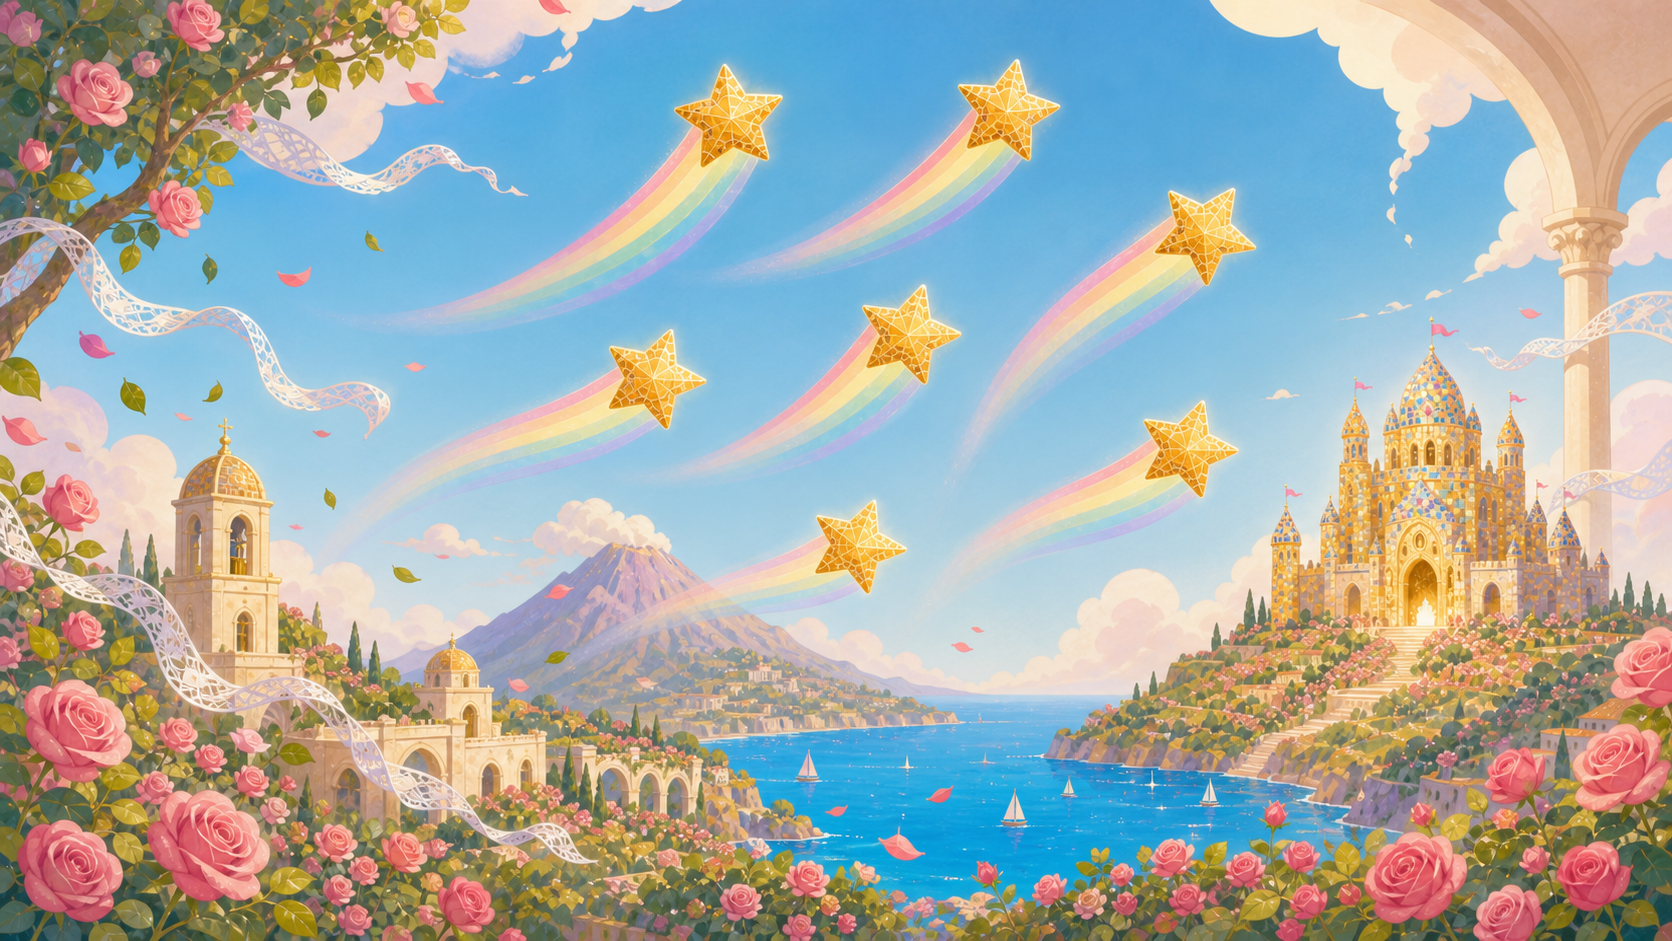
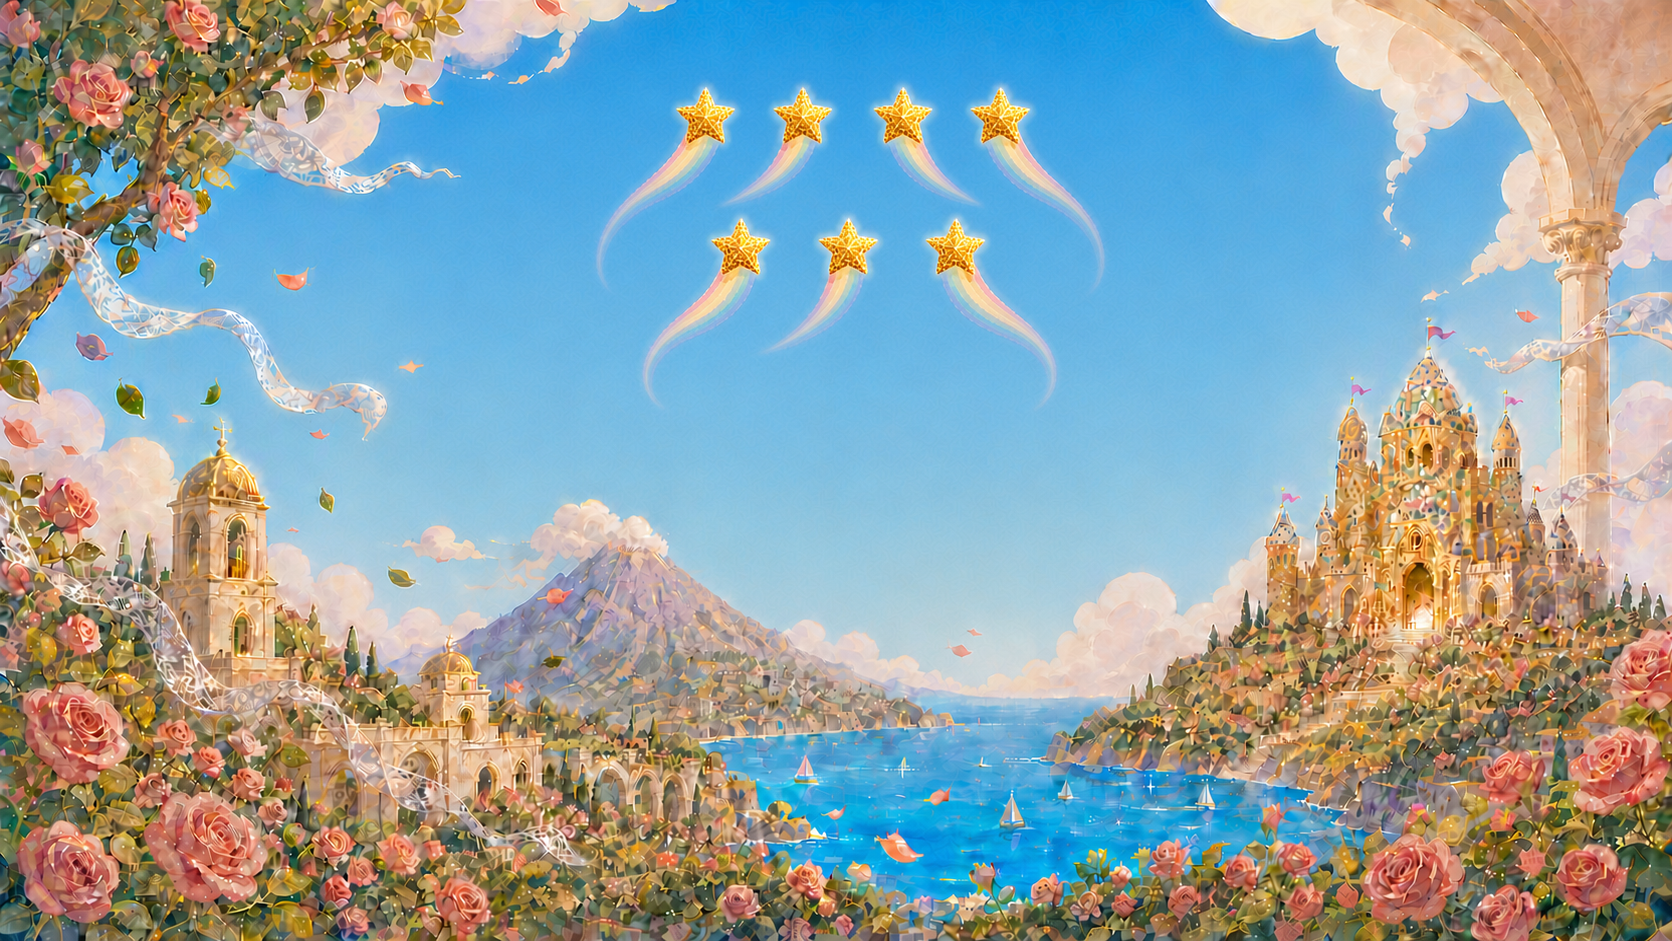
Polish opening storybook illustrations

diff --git a/src/main.ts b/src/main.ts
@@ -2,7 +2,7 @@ import Phaser from "phaser";
 import { registerSW } from "virtual:pwa-register";
 
 import "./style.css";
-import { STOP_STORIES, STORY_PAGES, type StopStory } from "./game/content";
+import { OPENING_STORYBOOK_MOMENTS_AFTER_COVER, STOP_STORIES, type StopStory } from "./game/content";
 import { GAME_SIZE, RosiGameScene } from "./game/RosiGameScene";
 import { GameAudio } from "./game/sound";
 
@@ -32,8 +32,8 @@ const soundButtons = [getElement<HTMLButtonElement>("sound-toggle"), getElement<
 const storyArtworks = Array.from(storybook.querySelectorAll<HTMLImageElement>(".storybook__art"));
 const sound = new GameAudio();
 
-let storyPage = 0;
-let visibleStoryArtwork = 0;
+let openingMomentIndex = 0;
+let visibleStoryArtworkIndex = 0;
 let scene: RosiGameScene | undefined;
 let finalStarWaiting = false;
 
@@ -59,10 +59,10 @@ function preloadStoryArtwork(src: string): Promise<boolean> {
   return load;
 }
 
-async function transitionStoryArtwork(src: string, position: string, expectedPage: number): Promise<void> {
-  if (!await preloadStoryArtwork(src) || storyPage !== expectedPage) return;
+async function transitionStoryArtwork(src: string, position: string, expectedMomentIndex: number): Promise<void> {
+  if (!await preloadStoryArtwork(src) || openingMomentIndex !== expectedMomentIndex) return;
 
-  const nextArtworkIndex = visibleStoryArtwork === 0 ? 1 : 0;
+  const nextArtworkIndex = visibleStoryArtworkIndex === 0 ? 1 : 0;
   const nextArtwork = getStoryArtwork(nextArtworkIndex);
   nextArtwork.src = src;
   nextArtwork.style.objectPosition = position;
@@ -71,41 +71,41 @@ async function transitionStoryArtwork(src: string, position: string, expectedPag
   } catch {
     return;
   }
-  if (storyPage !== expectedPage) return;
+  if (openingMomentIndex !== expectedMomentIndex) return;
 
-  getStoryArtwork(visibleStoryArtwork).classList.remove("is-visible");
+  getStoryArtwork(visibleStoryArtworkIndex).classList.remove("is-visible");
   nextArtwork.classList.add("is-visible");
-  visibleStoryArtwork = nextArtworkIndex;
+  visibleStoryArtworkIndex = nextArtworkIndex;
 }
 
 function renderDots(): void {
-  pageDots.replaceChildren(...Array.from({ length: STORY_PAGES.length + 1 }, (_, index) => {
+  pageDots.replaceChildren(...Array.from({ length: OPENING_STORYBOOK_MOMENTS_AFTER_COVER.length + 1 }, (_, index) => {
     const dot = document.createElement("span");
-    if (index === storyPage) dot.className = "active";
+    if (index === openingMomentIndex) dot.className = "active";
     return dot;
   }));
-  pageDots.setAttribute("aria-label", `Story page ${storyPage + 1} of ${STORY_PAGES.length + 1}`);
+  pageDots.setAttribute("aria-label", `Story page ${openingMomentIndex + 1} of ${OPENING_STORYBOOK_MOMENTS_AFTER_COVER.length + 1}`);
 }
 
-function renderStoryPage(): void {
+function renderOpeningStorybookMoment(): void {
   renderDots();
-  if (storyPage === 0) return;
-  const page = STORY_PAGES[storyPage - 1];
-  if (!page) return;
-  eyebrow.textContent = page.eyebrow;
-  storyTitle.textContent = page.title;
-  storyCopy.textContent = page.copy;
-  void transitionStoryArtwork(page.image, page.imagePosition, storyPage);
+  if (openingMomentIndex === 0) return;
+  const momentContent = OPENING_STORYBOOK_MOMENTS_AFTER_COVER[openingMomentIndex - 1];
+  if (!momentContent) return;
+  eyebrow.textContent = momentContent.eyebrow;
+  storyTitle.textContent = momentContent.title;
+  storyCopy.textContent = momentContent.copy;
+  void transitionStoryArtwork(momentContent.image, momentContent.imagePosition, openingMomentIndex);
   const buttonText = storyNext.querySelector("span");
-  if (buttonText) buttonText.textContent = storyPage === STORY_PAGES.length ? "Fly with Rosi" : "Turn the page";
+  if (buttonText) buttonText.textContent = openingMomentIndex === OPENING_STORYBOOK_MOMENTS_AFTER_COVER.length ? "Fly with Rosi" : "Turn the page";
 }
 
 async function advanceStory(): Promise<void> {
   await sound.start();
   sound.play("button");
-  if (storyPage < STORY_PAGES.length) {
-    storyPage += 1;
-    renderStoryPage();
+  if (openingMomentIndex < OPENING_STORYBOOK_MOMENTS_AFTER_COVER.length) {
+    openingMomentIndex += 1;
+    renderOpeningStorybookMoment();
     return;
   }
   startGame();
@@ -302,5 +302,5 @@ document.addEventListener("keydown", (event) => {
 });
 
 renderDots();
-STORY_PAGES.forEach((page) => void preloadStoryArtwork(page.image));
+OPENING_STORYBOOK_MOMENTS_AFTER_COVER.forEach((momentContent) => void preloadStoryArtwork(momentContent.image));
 registerSW({ immediate: true });

diff --git a/tests/e2e/storybook.spec.ts b/tests/e2e/storybook.spec.ts
@@ -1,19 +1,43 @@
-import { expect, test } from "@playwright/test";
+import { expect, test, type Page } from "@playwright/test";
+
+const openingArtworkSequence = [
+  "/assets/storybook-celebration-preparations.webp",
+  "/assets/storybook-scattered-stars.webp",
+  "/assets/storybook-rosi-stella-departure.webp",
+] as const;
+
+async function expectOpeningArtworkSequence(page: Page): Promise<void> {
+  const visibleArtwork = page.locator(".storybook__art.is-visible");
+  await expect(visibleArtwork).toHaveAttribute("src", "/assets/storybook-key-art.png");
+
+  for (const [index, artwork] of openingArtworkSequence.entries()) {
+    const buttonName = index === 0 ? "Begin the story" : "Turn the page";
+    await page.getByRole("button", { name: buttonName }).click();
+    await expect(visibleArtwork).toHaveAttribute("src", artwork);
+  }
+}
 
 test("each Opening Storybook Moment shows its own illustration", async ({ page }) => {
   await page.goto("/");
 
-  const visibleArtwork = page.locator(".storybook__art.is-visible");
-  await expect(visibleArtwork).toHaveAttribute("src", "/assets/storybook-key-art.png");
+  await expectOpeningArtworkSequence(page);
+});
 
+test("the current illustration remains visible while the next one loads", async ({ page }) => {
+  let releaseArtwork = (): void => {};
+  const artworkCanLoad = new Promise<void>((resolve) => { releaseArtwork = resolve; });
+  await page.route("**/storybook-celebration-preparations.webp", async (route) => {
+    await artworkCanLoad;
+    await route.continue();
+  });
+
+  await page.goto("/", { waitUntil: "domcontentloaded" });
   await page.getByRole("button", { name: "Begin the story" }).click();
-  await expect(visibleArtwork).toHaveAttribute("src", "/assets/storybook-celebration-preparations.webp");
+  await expect(page.getByText("Far across the sparkling Sapphire Sea")).toBeVisible();
+  await expect(page.locator(".storybook__art.is-visible")).toHaveAttribute("src", "/assets/storybook-key-art.png");
 
-  await page.getByRole("button", { name: "Turn the page" }).click();
-  await expect(visibleArtwork).toHaveAttribute("src", "/assets/storybook-scattered-stars.webp");
-
-  await page.getByRole("button", { name: "Turn the page" }).click();
-  await expect(visibleArtwork).toHaveAttribute("src", "/assets/storybook-rosi-stella-departure.webp");
+  releaseArtwork();
+  await expect(page.locator(".storybook__art.is-visible")).toHaveAttribute("src", openingArtworkSequence[0]);
 });
 
 test("a grown-up can read the story and Rosi can begin flying", async ({ page }) => {
@@ -58,11 +82,5 @@ test("the storybook reopens offline after its first visit", async ({ context, pa
 
   await expect(page.getByRole("heading", { name: "Princess Rosi and the Seven Birthday Stars" })).toBeVisible();
 
-  const visibleArtwork = page.locator(".storybook__art.is-visible");
-  await page.getByRole("button", { name: "Begin the story" }).click();
-  await expect(visibleArtwork).toHaveAttribute("src", "/assets/storybook-celebration-preparations.webp");
-  await page.getByRole("button", { name: "Turn the page" }).click();
-  await expect(visibleArtwork).toHaveAttribute("src", "/assets/storybook-scattered-stars.webp");
-  await page.getByRole("button", { name: "Turn the page" }).click();
-  await expect(visibleArtwork).toHaveAttribute("src", "/assets/storybook-rosi-stella-departure.webp");
+  await expectOpeningArtworkSequence(page);
 });

diff --git a/src/game/content.ts b/src/game/content.ts
@@ -22,7 +22,7 @@ export const STOP_STORIES: readonly StopStory[] = [
   { id: "castle", place: "Birthday Castle gates", guest: "Dad", moment: "Dad held the final Birthday Star at the castle gates!", icon: "🏰", sky: 0xf6b6cf, ground: 0xe6ae55 },
 ] as const;
 
-export const STORY_PAGES = [
+export const OPENING_STORYBOOK_MOMENTS_AFTER_COVER = [
   {
     eyebrow: "Once upon a birthday…",
     title: "A celebration across the sea",
@@ -35,13 +35,13 @@ export const STORY_PAGES = [
     title: "Seven Stars flew away",
     copy: "A playful wind scattered seven Birthday Stars across Fairytale Sicily. The Rainbow Paths to the castle vanished!",
     image: "/assets/storybook-scattered-stars.webp",
-    imagePosition: "54% 42%",
+    imagePosition: "50% 42%",
   },
   {
     eyebrow: "A brave big sister",
     title: "Rosi and Stella can help",
     copy: "Princess Rosi climbed onto Stella, her flying unicorn. “We’ll find every Star and bring everyone to the celebration!”",
     image: "/assets/storybook-rosi-stella-departure.webp",
-    imagePosition: "52% 40%",
+    imagePosition: "50% 42%",
   },
 ] as const;

diff --git a/docs/media-prompts.md b/docs/media-prompts.md
@@ -22,7 +22,7 @@ Output: `public/assets/storybook-key-art.png`
 
 ## Opening Storybook Moment: celebration preparations
 
-Execution: built-in OpenAI image-generation tool. `public/assets/storybook-key-art.png` provided the visual style and Fairytale Sicily reference; `public/assets/celebration-art.png` provided Gigi's established appearance. Two targeted edits raised the cake and crown into the crop-safe area and replaced the generated candle flame with a short dark wick.
+Execution: built-in OpenAI image-generation tool. `public/assets/storybook-key-art.png` provided the visual style and Fairytale Sicily reference; `public/assets/celebration-art.png` provided Gigi's established appearance. Targeted edits compacted Gigi, the cake, crown, and empty place setting into the upper-center crop-safe area and replaced the generated candle flame with a short dark wick.
 
 > Use case: illustration-story
 > Asset type: 16:9 full-screen Opening Storybook Moment background for a gentle browser game for a four-year-old
@@ -42,7 +42,7 @@ Deployed output: `public/assets/storybook-celebration-preparations.webp`
 
 ## Opening Storybook Moment: scattered Stars
 
-Execution: built-in OpenAI image-generation tool. `public/assets/storybook-key-art.png` provided the visual style, palette, architecture, landscape, rose, lace, cloud, sea, castle, and luminous-gold reference.
+Execution: built-in OpenAI image-generation tool. `public/assets/storybook-key-art.png` provided the visual style, palette, architecture, landscape, rose, lace, cloud, sea, castle, and luminous-gold reference. Targeted edits arranged all seven Stars in a compact upper-center safe area where they remain countable above the story card in landscape and portrait crops.
 
 > Use case: illustration-story
 > Asset type: 16:9 full-screen Opening Storybook Moment background for a gentle browser game for a four-year-old
@@ -62,7 +62,7 @@ Deployed output: `public/assets/storybook-scattered-stars.webp`
 
 ## Opening Storybook Moment: Rosi and Stella depart
 
-Execution: built-in OpenAI image-generation tool. `public/assets/storybook-key-art.png` provided the identity reference for Princess Rosi and Stella as well as the visual style, palette, roses, lace, sky, and Fairytale Sicily.
+Execution: built-in OpenAI image-generation tool. `public/assets/storybook-key-art.png` provided the identity reference for Princess Rosi and Stella as well as the visual style, palette, roses, lace, sky, and Fairytale Sicily. Targeted edits compacted Rosi, Stella, both wings, and the single Star into the upper-center crop-safe area.
 
 > Use case: illustration-story
 > Asset type: 16:9 full-screen Opening Storybook Moment background for a gentle browser game for a four-year-old
